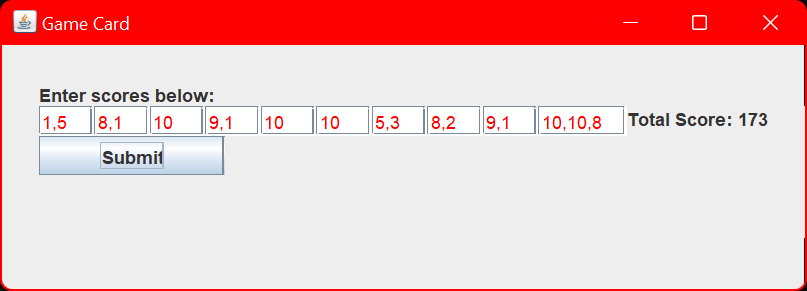
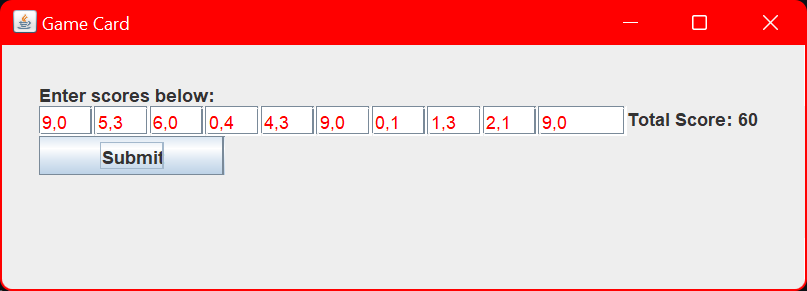
can use symbols to input

diff --git a/Score Finder/ScoreFinder.java b/Score Finder/ScoreFinder.java
@@ -137,6 +137,32 @@ public class ScoreFinder implements ActionListener{
         for (int i = 0; i < 10; i++){
             String frameScore = inputList.get(i).getText();
             String[] currFrame = frameScore.split(",");
+            //decode the commonly used bowling symbols
+            for (int j = 0; j < currFrame.length ; j++){
+                String score = currFrame[j];
+                if (score.equals("X")){
+                    currFrame[j] = "10";
+                }
+                else if (score.equals("/")){
+                    if (j == 0){
+                        errMsg.setText("INVALID SCORE ENTRY. PLEASE TRY AGAIN!");
+                        errMsg.setSize(errMsg.getPreferredSize());
+                        jlout.setText("Total Score: --- ");
+                        return;
+                    }
+                    else {
+                        try{
+                            currFrame[j] =  String.valueOf((10 - Integer.parseInt(currFrame[j-1])));
+                        } catch(Exception ex){
+                            errMsg.setText("INVALID SCORE ENTRY. PLEASE TRY AGAIN!");
+                            errMsg.setSize(errMsg.getPreferredSize());
+                            jlout.setText("Total Score: --- ");
+                            return;
+                        }
+                    }
+                }
+            }
+
             switch (currFrame.length){
                 case 1:
                     try {
